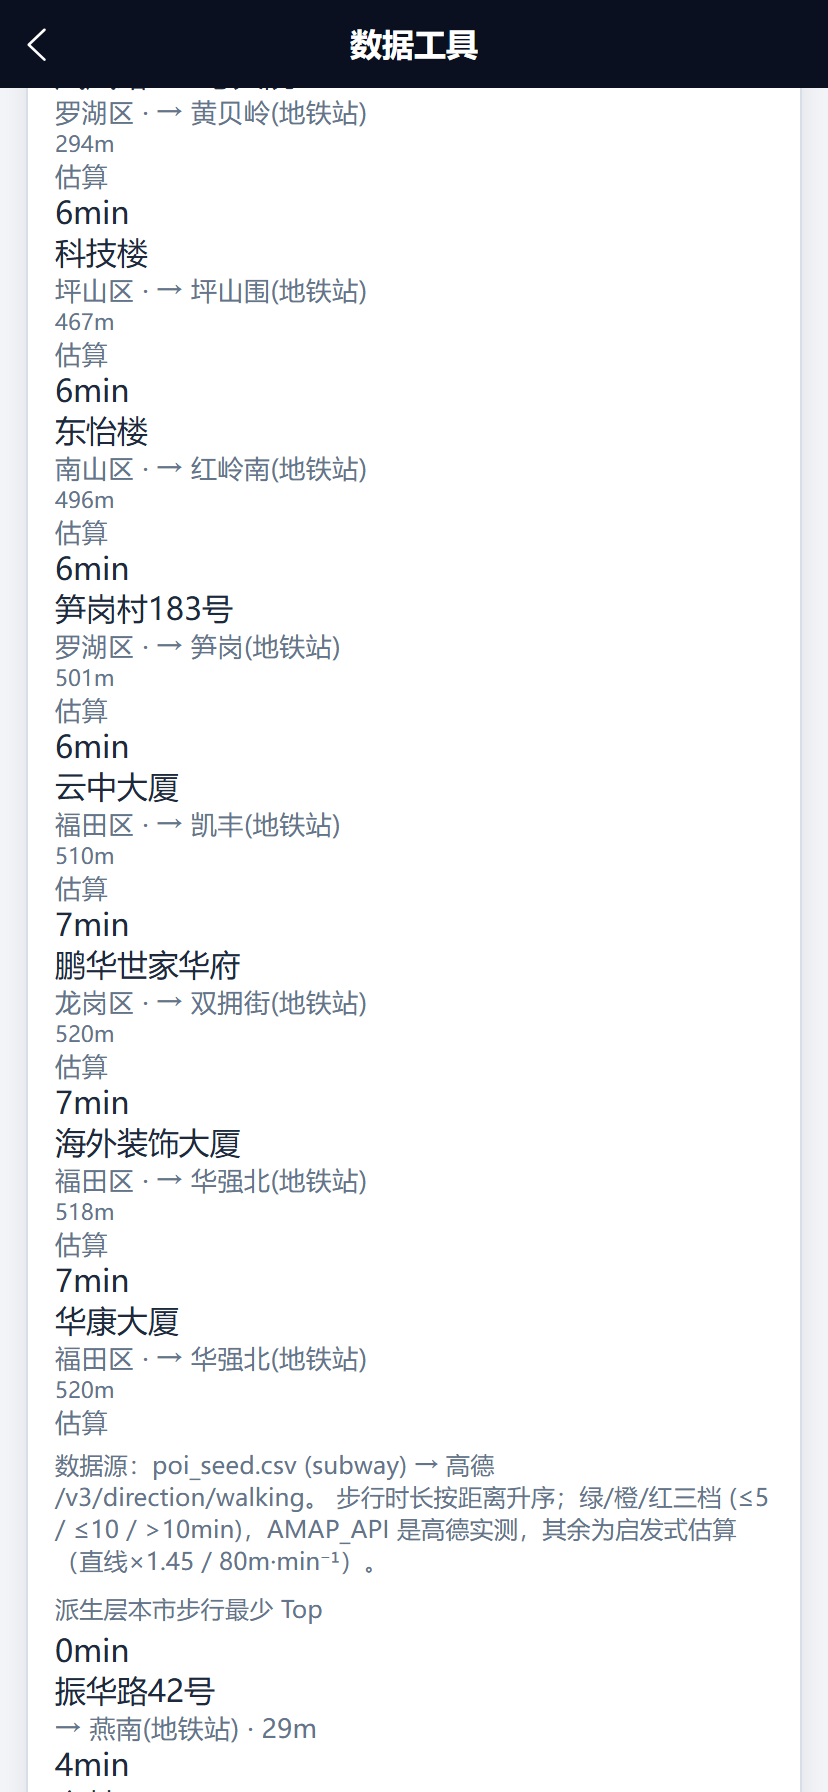
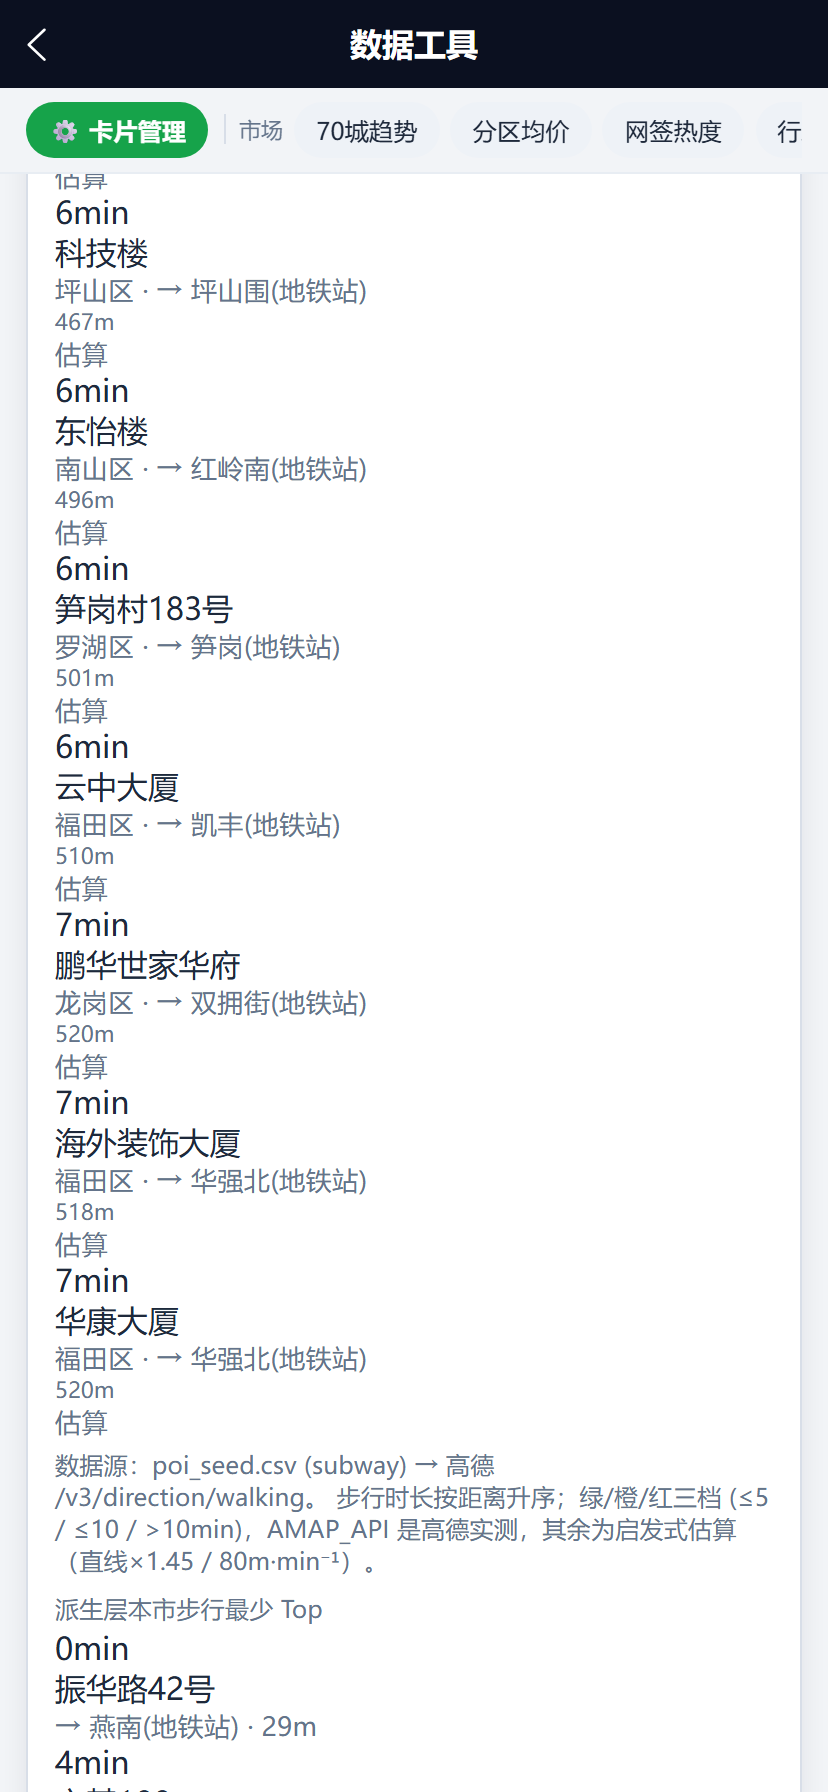
feat(data-tools): v1.123.3 数据工具页锚点分组导航
- 页头下新增吸顶横滚导航 [data-dt-nav]：17 张 data-dt 卡（Batch 1-6 迁入 16 张 + 行政区划）
  按「市场/交通/学区/挂牌」四组 chip + ⚙ 卡片管理，点击平滑滚动到对应卡
- 吸顶 top: var(--window-top) 让出 uni-page-head；H5 端自算 scrollTop
  （实测 uni-h5 pageScrollTo 不透传 offset），扣除 page-head + 吸顶导航高度 + 8px 呼吸位
- 目标卡无数据（v-if 未渲染）时 toast 提示，不静默失败
- 新增 ext smoke_data_tools_nav.mjs（吸顶保持/点击滚动/卡顶让位/回顶真实断言），单跑 PASS
- FEATURE_CATALOG 新增 F-DTOOLS-01 + 登记表行；README 版本表 + changelog
- versionCode 338

diff --git a/realty_app/src/pages/data-tools/data-tools.vue b/realty_app/src/pages/data-tools/data-tools.vue
@@ -6,6 +6,33 @@
         <view class="page-header-sub muted">从仪表盘迁入的派生数据卡 · Batch 1-6 已迁 16 张 / 共 16 张</view>
       </view>
 
+      <!-- v1.123.3 锚点分组导航：17 张卡（16 迁移 + 行政区划）按主题分组，点击 chip 滚动到对应卡 -->
+      <view class="dt-nav" data-dt-nav>
+        <scroll-view scroll-x class="dt-nav-scroll" :show-scrollbar="false">
+          <view class="dt-nav-row">
+            <button
+              class="dt-nav-chip dt-nav-chip--tool"
+              size="mini"
+              hover-class="dt-nav-chip--hover"
+              data-dt-nav-item="card-manager"
+              @click="scrollToDtCard('card-manager')"
+            >⚙ 卡片管理</button>
+            <template v-for="g in DT_NAV_GROUPS" :key="g.key">
+              <view class="dt-nav-group">{{ g.label }}</view>
+              <button
+                v-for="it in g.items"
+                :key="it.anchor"
+                class="dt-nav-chip"
+                size="mini"
+                hover-class="dt-nav-chip--hover"
+                :data-dt-nav-item="it.anchor"
+                @click="scrollToDtCard(it.anchor)"
+              >{{ it.label }}</button>
+            </template>
+          </view>
+        </scroll-view>
+      </view>
+
       <!-- v1.121.145 首页卡片管理（设置入口） -->
       <view class="card" data-dt-card-manager>
         <view class="row-between">
@@ -1561,6 +1588,89 @@ import { type LocalSchoolPremiumCommunity } from "../../local/types";
 
 const app = useAppStore();
 
+// v1.123.3 锚点分组导航：17 张卡（16 张迁入 + 行政区划）按主题分组（市场/交通/学区/挂牌），
+// chip 点击平滑滚动到对应卡；卡无数据（v-if 未渲染）时 toast 提示。
+interface DtNavItem {
+  anchor: string;
+  label: string;
+}
+interface DtNavGroup {
+  key: string;
+  label: string;
+  items: DtNavItem[];
+}
+const DT_NAV_GROUPS: DtNavGroup[] = [
+  {
+    key: "market",
+    label: "市场",
+    items: [
+      { anchor: "stats70-drift", label: "70城趋势" },
+      { anchor: "district-trend", label: "分区均价" },
+      { anchor: "wangqian-rank", label: "网签热度" },
+      { anchor: "admin-district", label: "行政区划" }
+    ]
+  },
+  {
+    key: "transit",
+    label: "交通",
+    items: [
+      { anchor: "metro-walk", label: "步行可达" },
+      { anchor: "commute-walk", label: "步行通勤" },
+      { anchor: "plan-benefit", label: "规划受益" },
+      { anchor: "metro-plan", label: "规划地铁" }
+    ]
+  },
+  {
+    key: "school",
+    label: "学区",
+    items: [
+      { anchor: "edu-overview", label: "教育事业" },
+      { anchor: "district-meta", label: "区情画像" },
+      { anchor: "school-indicator", label: "学校指标" },
+      { anchor: "school-dimension", label: "重点学校" },
+      { anchor: "school-top", label: "学区Top" }
+    ]
+  },
+  {
+    key: "listing",
+    label: "挂牌",
+    items: [
+      { anchor: "listing-structure", label: "挂牌结构" },
+      { anchor: "feature-premium", label: "特征溢价" },
+      { anchor: "listing-tags", label: "挂牌标签" },
+      { anchor: "tag-combination", label: "标签组合" }
+    ]
+  }
+];
+
+function scrollToDtCard(anchor: string) {
+  const sel = `[data-dt-${anchor}]`;
+  // H5：uni.pageScrollTo 不透传 offset（uni-h5 未解构），吸顶导航会盖住卡顶，
+  // 自行计算 scrollTop：目标卡顶 − uni-page-head − 吸顶导航 − 8px 呼吸位。
+  if (typeof document !== "undefined") {
+    const el = document.querySelector(sel);
+    if (el) {
+      const head = document.querySelector("uni-page-head");
+      const nav = document.querySelector("[data-dt-nav]");
+      const top =
+        el.getBoundingClientRect().top +
+        window.pageYOffset -
+        (head ? (head as HTMLElement).offsetHeight : 0) -
+        (nav ? (nav as HTMLElement).offsetHeight : 0) -
+        8;
+      window.scrollTo({ top: Math.max(0, top), behavior: "smooth" });
+      return;
+    }
+    uni.showToast({ title: "该卡片暂无数据", icon: "none" });
+    return;
+  }
+  uni.pageScrollTo({
+    selector: sel,
+    duration: 280,
+    fail: () => uni.showToast({ title: "该卡片暂无数据", icon: "none" })
+  });
+}
+
 // v1.121.143 Batch 5: feature_premium (迁移自 dashboard)
 const featurePremium = ref<FeaturePremiumResponse | null>(null);
 async function reloadFeaturePremium() {
@@ -2269,6 +2379,55 @@ onShow(async () => {
 .page-header-sub {
   font-size: 22rpx;
   margin-top: 4rpx;
+}
+/* v1.123.3 锚点分组导航：吸顶（让出 uni-page-head）+ 横滚 chips */
+.dt-nav {
+  position: sticky;
+  top: var(--window-top, 0px);
+  z-index: 40;
+  margin: 0 -24rpx 16rpx;
+  padding: 12rpx 24rpx;
+  background: var(--color-bg);
+  border-bottom: 1rpx solid var(--color-border-soft, #eee);
+}
+.dt-nav-scroll {
+  width: 100%;
+  white-space: nowrap;
+}
+.dt-nav-row {
+  display: inline-flex;
+  align-items: center;
+  gap: 10rpx;
+}
+.dt-nav-group {
+  flex: 0 0 auto;
+  margin-left: 4rpx;
+  padding-left: 12rpx;
+  border-left: 1rpx solid var(--color-border);
+  font-size: 20rpx;
+  color: var(--color-muted);
+}
+.dt-nav-chip {
+  flex: 0 0 auto;
+  margin: 0;
+  padding: 0 20rpx;
+  height: 52rpx;
+  line-height: 52rpx;
+  font-size: 22rpx;
+  border-radius: var(--radius-pill);
+  background: var(--color-soft);
+  color: var(--color-text);
+}
+.dt-nav-chip::after {
+  border: none;
+}
+.dt-nav-chip--tool {
+  background: var(--color-primary);
+  color: var(--color-primary-text);
+  font-weight: 600;
+}
+.dt-nav-chip--hover {
+  opacity: 0.75;
 }
 .edu-summary {
   display: flex;

diff --git a/realty_app/src/config.ts b/realty_app/src/config.ts
@@ -12,7 +12,7 @@ export const DEFAULT_API_BASE_URL = "http://localhost:8000";
 
 export const APP_NAME = "Realty App";
 // 与 src/manifest.json 的 versionName 同步；CI 出包时会自动覆写
-export const APP_VERSION = "1.123.2";
+export const APP_VERSION = "1.123.3";
 
 export const STORAGE_KEYS = {
   apiBaseUrl: "realty_app.apiBaseUrl",

diff --git a/realty_app/changelog/2026-11-03-v1.123.3-数据工具页锚点分组导航.md b/realty_app/changelog/2026-11-03-v1.123.3-数据工具页锚点分组导航.md
@@ -1,0 +1,34 @@
+# v1.123.3（versionCode 338）· 数据工具页锚点分组导航
+
+日期：2026-11-03
+
+## 背景
+
+数据工具页（`pages/data-tools/data-tools`）Batch 1-6 共迁入 16 张派生卡 + 顶部卡片管理 + 尾部提示卡，页面长达十余屏，想看中后段的卡（如网签热度榜、学区评分 Top）只能一直手滑，定位困难。上一轮建议第 3 条：加锚点分组导航。
+
+## 变更
+
+### data-tools.vue
+
+- **模板**：页头下新增吸顶横滚导航 `[data-dt-nav]`（`scroll-view scroll-x`，map-view 同款模式）：
+  - 前置 ⚙ 卡片管理 chip（滚回页顶管理卡）；
+  - 17 张卡（Batch 1-6 迁入 16 张 + 页内原有行政区划卡）按语义分四组「市场（70城趋势/分区均价/网签热度/行政区划）· 交通（步行可达/步行通勤/规划受益/规划地铁）· 学区（教育事业/区情画像/学校指标/重点学校/学区Top）· 挂牌（挂牌结构/特征溢价/挂牌标签/标签组合）」，组间竖线分隔 + 组名小字；
+  - 每个 chip 带 `data-dt-nav-item="<anchor>"`，点击 `scrollToDtCard(anchor)`。
+- **滚动定位**：自算 `window.scrollTo`（H5 分支，`typeof document !== "undefined"` 守卫，dashboard `setDashTab` 同款模式）：
+  - 实测 `@dcloudio/uni-h5` 的 `pageScrollTo` 只解构 `{ scrollTop, selector, duration }`，**`offset` 不透传**（uni-shared `scrollTo` 内部只减 `uni-page-head` 高度）→ 吸顶导航会盖住目标卡顶部；
+  - 故 H5 端自行计算：`卡顶 − uni-page-head 高 − 吸顶导航高 − 8px 呼吸位`，`behavior: "smooth"`；
+  - 非 H5 端回退 `uni.pageScrollTo({ selector, duration })`；
+  - 目标卡无数据（v-if 未渲染）时 `uni.showToast({ title: "该卡片暂无数据" })`，不静默失败。
+- **样式**：`.dt-nav` `position: sticky; top: var(--window-top, 0px)`（uni-h5 按页设置该变量 = 默认导航栏 44px + safe-area，吸顶恰好在 uni-page-head 下方）；负 margin 撑满 container 内边距；chip 复用 `--color-soft`/`--color-primary` 主题变量，深浅主题自适应。
+
+### 文档
+
+- FEATURE_CATALOG 新增 **F-DTOOLS-01 · 数据工具页锚点分组导航**（吸顶/分组/让位/toast 四类期望 + 不期望 + 自动化口径），登记表追加一行。
+
+## 验证
+
+- `npm run type-check` 0 错误
+- 新增 ext `tests/e2e/smoke_data_tools_nav.mjs`：导航可见且含 18 chip（17 卡 + 卡片管理）/ 4 组名 → 滚到页底导航仍吸顶（navTop=44 = page-head 高）→ 点「网签热度」「步行通勤」chip 真实滚动且卡顶不被吸顶导航遮挡（卡顶 95.3 > 导航底 86.9）→ 点 ⚙ 卡片管理回到页顶 → 单跑 PASS
+- extended 9/9（含新用例）全绿、core 13/13 无回归
+- `npm test` 全绿
+- 线上 CI tests + build 双 success

diff --git a/realty_app/README.md b/realty_app/README.md
@@ -10,6 +10,7 @@
 
 | 版本 | 发布日期 | 说明 |
 |------|----------|------|
+| v1.123.3 | 2026-11-03 | 数据工具页锚点分组导航：17 张 `[data-dt-*]` 卡（Batch 1-6 迁入 16 张 + 行政区划）页面过长难定位 → 页头下新增吸顶横滚导航 `[data-dt-nav]`，按「市场/交通/学区/挂牌」四组 chip + ⚙ 卡片管理，点击平滑滚动到对应卡；吸顶用 `top: var(--window-top)` 让出 uni-page-head；滚动定位自算 scrollTop（实测 uni-h5 的 `pageScrollTo` 不透传 `offset`），扣除 page-head + 吸顶导航高度 + 8px 呼吸位，卡顶不被遮挡；目标卡无数据（v-if 未渲染）时 toast 提示不静默失败；FEATURE_CATALOG 新增 F-DTOOLS-01，ext `smoke_data_tools_nav` 真实验证吸顶可见 + 点击滚动 + 卡顶让位（versionCode 338） |
 | v1.123.2 | 2026-11-03 | 首页瘦身收官：dashboard v122 壳层隐藏的最后两张卡正式迁入数据工具页 Batch 6——「近 4 周二手网签热度榜」（`[data-dt-wangqian-rank]`）+「学区评分 Top 小区」含区过滤/最低评分/排序控件（`[data-dt-school-top]`），dashboard 原卡模板与孤儿逻辑（sp* refs/watch、`wangqianPct`、4 个派生 computed、`.spc-*` 样式、失效 ADVANCED_CARDS 条目）全部删除，`hero 市场脉搏` 的网签套数指标保留；卡片管理清单同步划掉两卡（16/16=100%）；两个 e2e（`smoke_school_community`/`smoke_wangqian_heatmap`）从「attached 断言+强制取消隐藏截图」升级为「data-tools 页 visible 真实可见」断言；4 处 buildIntegrity 契约 + 1 处 data-tab 预算契约同步指向新位置；FEATURE_CATALOG F-DASH-06/F-DASH-08 已登记（versionCode 337） |
 | v1.123.1 | 2026-11-03 | 修地图找房 legend 文案回退：v0.27.0 起低缩放按密度过滤（仅保留挂牌较多小区）的逻辑一直在跑，但 legend 说明文案在某次改写中丢失，用户无法发现该行为 → 恢复「缩小到城市级时按密度过滤，放大后恢复」说明；顺手修 extended e2e 两个硬编码 `127.0.0.1:5175` 的脚本（`smoke_community_metrics`/`smoke_listing_minidim` 在 run_suite 5174 下永远 CONNECTION_REFUSED，改走 `REALTY_E2E_BASE_URL`），并补 stats70 过滤框交互 e2e（收窄/名次保持/空态/清空，挂 extended）（versionCode 336） |
 | v1.123.0 | 2026-11-03 | 70 城榜单加城市过滤框：输入即筛（子串匹配），筛选后 `#N` 保留全表原始名次（先记名次后过滤，不随筛选重排），无匹配有空态提示，「清空」一键恢复 70 行；FEATURE_CATALOG F-S70-01 已登记三类验收点，unit 契约 +2（versionCode 335） |

diff --git a/realty_app/docs/FEATURE_CATALOG.md b/realty_app/docs/FEATURE_CATALOG.md
@@ -563,6 +563,25 @@
 
 ---
 
+### F-DTOOLS-01 · 数据工具页锚点分组导航
+
+| 项 | 内容 |
+|----|------|
+| 入口 | `data-tools` 顶部吸顶导航 `[data-dt-nav]` |
+| 风险 | U, F |
+| 对照 | 17 张 `[data-dt-*]` 卡（Batch 1-6 迁入 16 张 + 行政区划） |
+
+**期望**
+1. （U）导航吸顶于 `uni-page-head` 下方（`top: var(--window-top)`），滚动不丢失  
+2. （F）chip 按「市场 / 交通 / 学区 / 挂牌」四组排列 + ⚙ 卡片管理；点击平滑滚动到对应 `[data-dt-*]` 卡，卡顶不被吸顶导航遮挡（让出导航高度 + 8px）  
+3. （F）目标卡无数据（v-if 未渲染）时 toast「该卡片暂无数据」，不静默失败  
+
+**不期望**：chip 顺序与卡片语义分组错乱；滚动后卡顶被吸顶导航/uni-page-head 盖住。  
+**自动化**：ext `smoke_data_tools_nav.mjs`（吸顶可见 + 点击 chip 滚动 + 卡顶让位断言）  
+**手工**：数据工具页点「网签热度」chip，页面滚到热度榜且标题完整可见。
+
+---
+
 ## 7. 横切语义
 
 ### F-X-01 · 房价三轴语义门禁
@@ -625,6 +644,7 @@
 
 | 日期 | ID | 标题 | 发版 version | 备注 |
 |------|-----|------|--------------|------|
+| 2026-11-03 | F-DTOOLS-01 | 数据工具页锚点分组导航（吸顶 + 17 卡四组 chips + 滚动让位） | 1.123.3 | `[data-dt-nav]`；ext smoke_data_tools_nav；H5 自算 scrollTop（uni offset 不透传） |
 | 2026-07-29 | F-DASH-11 | 交通运输部货运/港口经济运行建卡 | 1.121.157 | ≠房价；macro-industry；MOT xxgk |
 | 2026-07-29 | F-DASH-11 | NBS 服务业生产指数建卡（含租赁商务分项） | 1.121.156 | ≠房价；macro-industry；可与 gd_services 对照 |
 | 2026-07-29 | F-DASH-11 | NBS 城镇调查失业率建卡（国民经济运行通稿） | 1.121.155 | 就业弱相关≠房价；macro-industry；附 GDP 前三季度回填 |
